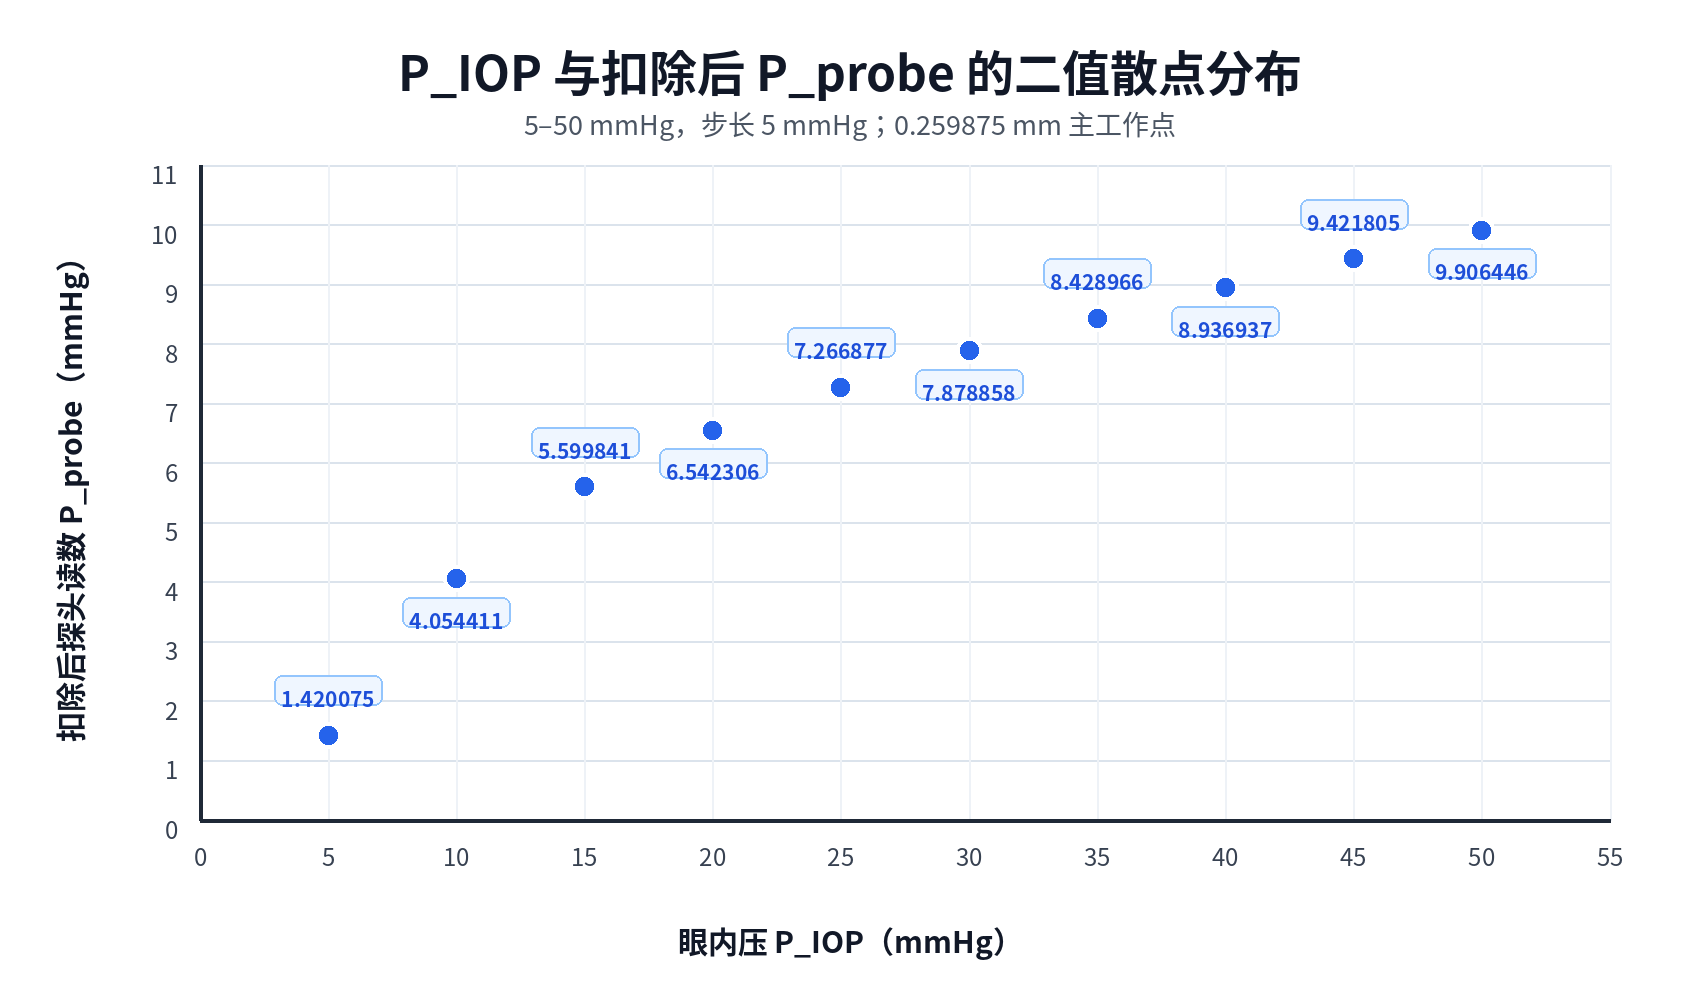
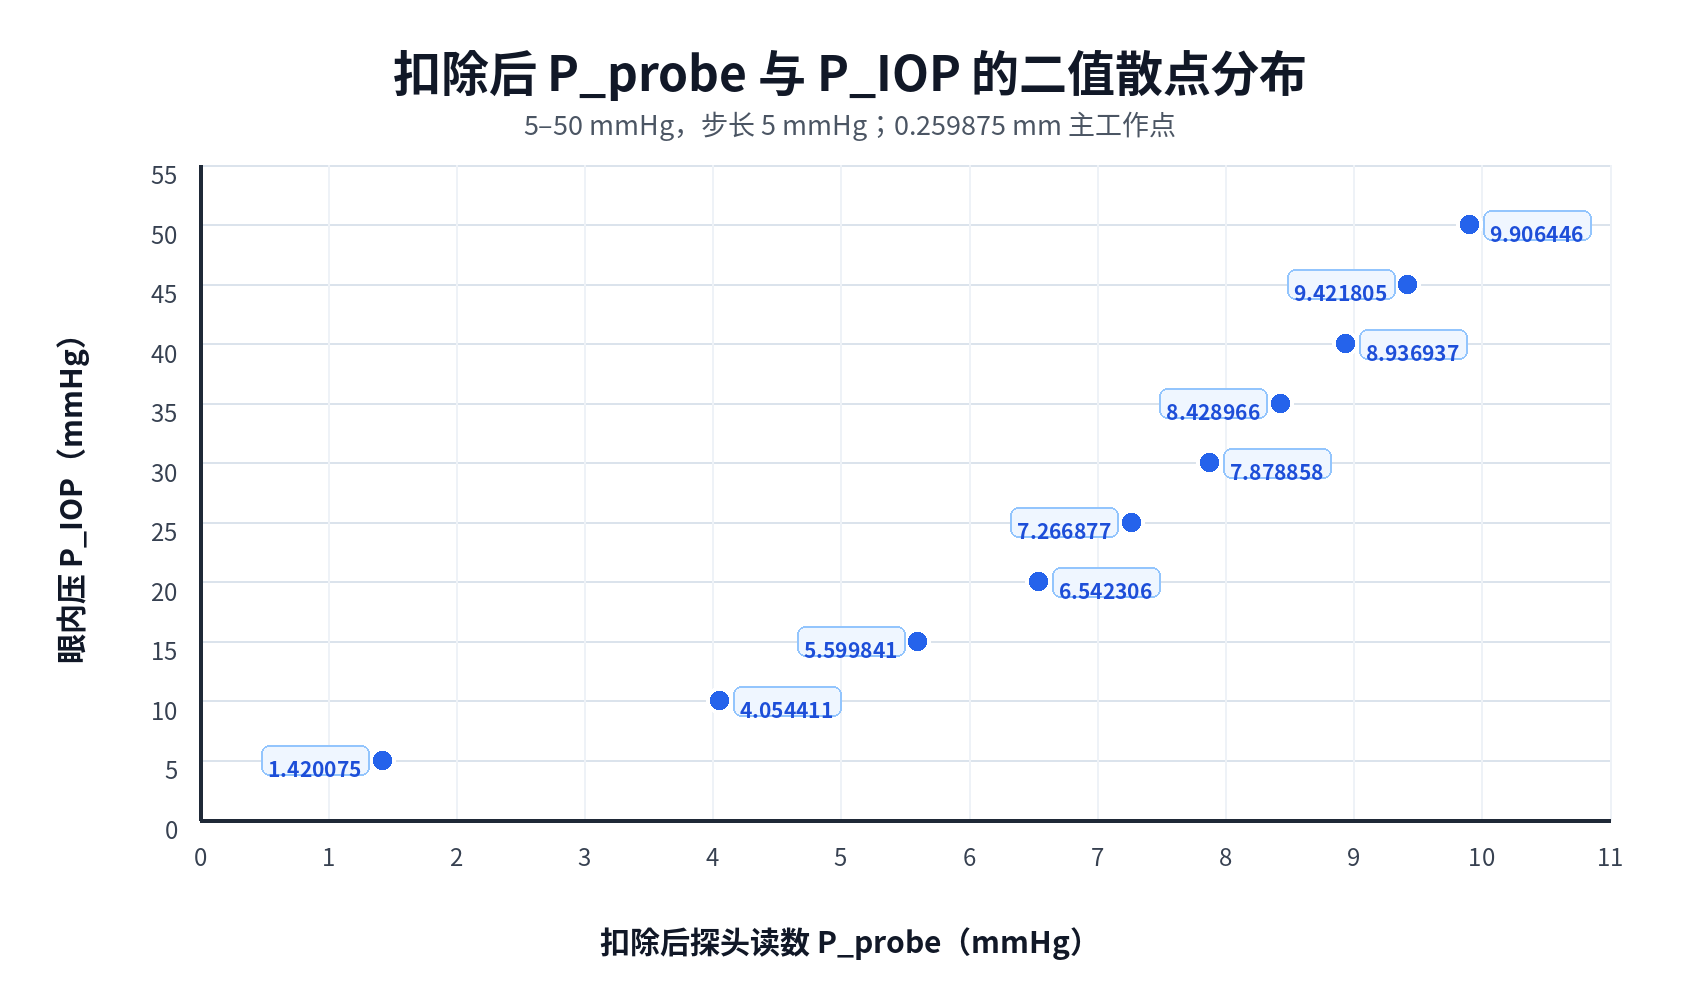
Swap axes in supplemental IOP scatter plot

diff --git a/high_iop_mechanical_transfer_t1p25_c0p60/plot_piop_vs_delta_pprobe_5_to_50.py b/high_iop_mechanical_transfer_t1p25_c0p60/plot_piop_vs_delta_pprobe_5_to_50.py
@@ -52,8 +52,8 @@ def main() -> int:
     left, right, top, bottom = 200, 90, 165, 180
     plot_width = width - left - right
     plot_height = height - top - bottom
-    x_min, x_max = 0.0, 55.0
-    y_min, y_max = 0.0, 11.0
+    x_min, x_max = 0.0, 11.0
+    y_min, y_max = 0.0, 55.0
     xp = lambda value: left + (value - x_min) / (x_max - x_min) * plot_width
     yp = lambda value: top + (y_max - value) / (y_max - y_min) * plot_height
 
@@ -65,20 +65,20 @@ def main() -> int:
     tick_font = font(regular, 24)
     label_font = font(bold, 21)
 
-    title = "P_IOP 与扣除后 P_probe 的二值散点分布"
+    title = "扣除后 P_probe 与 P_IOP 的二值散点分布"
     box = draw.textbbox((0, 0), title, font=title_font)
     draw.text(((width - (box[2] - box[0])) / 2, 35), title, fill="#111827", font=title_font)
     subtitle = "5–50 mmHg，步长 5 mmHg；0.259875 mm 主工作点"
     box = draw.textbbox((0, 0), subtitle, font=subtitle_font)
     draw.text(((width - (box[2] - box[0])) / 2, 103), subtitle, fill="#4b5563", font=subtitle_font)
 
-    for y in range(0, 12):
+    for y in range(0, 56, 5):
         py = yp(y)
         draw.line((left, py, width - right, py), fill="#dbe3ec", width=2)
         text = str(y)
         box = draw.textbbox((0, 0), text, font=tick_font)
         draw.text((left - 22 - (box[2] - box[0]), py - (box[3] - box[1]) / 2), text, fill="#374151", font=tick_font)
-    for x in range(0, 56, 5):
+    for x in range(0, 12):
         px = xp(x)
         draw.line((px, top, px, height - bottom), fill="#eef2f7", width=2)
         text = str(x)
@@ -88,10 +88,10 @@ def main() -> int:
     draw.line((left, top, left, height - bottom), fill="#1f2937", width=4)
     draw.line((left, height - bottom, width - right, height - bottom), fill="#1f2937", width=4)
 
-    xlabel = "眼内压 P_IOP（mmHg）"
+    xlabel = "扣除后探头读数 P_probe（mmHg）"
     box = draw.textbbox((0, 0), xlabel, font=axis_font)
     draw.text(((width - (box[2] - box[0])) / 2, height - 82), xlabel, fill="#111827", font=axis_font)
-    ylabel = "扣除后探头读数 P_probe（mmHg）"
+    ylabel = "眼内压 P_IOP（mmHg）"
     layer = Image.new("RGBA", (600, 70), (255, 255, 255, 0))
     layer_draw = ImageDraw.Draw(layer)
     box = layer_draw.textbbox((0, 0), ylabel, font=axis_font)
@@ -100,13 +100,14 @@ def main() -> int:
     image.paste(layer, (29, top + (plot_height - layer.height) // 2), layer)
 
     for index, (pressure, probe) in enumerate(points):
-        px, py = xp(pressure), yp(probe)
+        px, py = xp(probe), yp(pressure)
         draw.ellipse((px - 13, py - 13, px + 13, py + 13), fill="#2563eb", outline="white", width=4)
         text = f"{probe:.6f}"
         box = draw.textbbox((0, 0), text, font=label_font)
         text_width = box[2] - box[0]
-        dx = -text_width / 2
-        dy = -53 if index % 2 == 0 else 25
+        text_height = box[3] - box[1]
+        dx = -text_width - 20 if index % 2 == 0 else 20
+        dy = -text_height / 2
         tx, ty = px + dx, py + dy
         pad = 7
         draw.rounded_rectangle(

diff --git a/high_iop_mechanical_transfer_t1p25_c0p60/IOP_5_TO_50_SUPPLEMENT_RESULT.md b/high_iop_mechanical_transfer_t1p25_c0p60/IOP_5_TO_50_SUPPLEMENT_RESULT.md
@@ -56,6 +56,8 @@
 
 ## 4. PIOP—扣除后Pprobe二值散点分布
 
+横轴为扣除后探头读数Pprobe，纵轴为眼内压PIOP。
+
 ![PIOP与扣除后Pprobe的5至50 mmHg二值散点分布](figures/piop_vs_delta_pprobe_scatter_5_to_50_step5.png)
 
 ## 5. 数据位置
